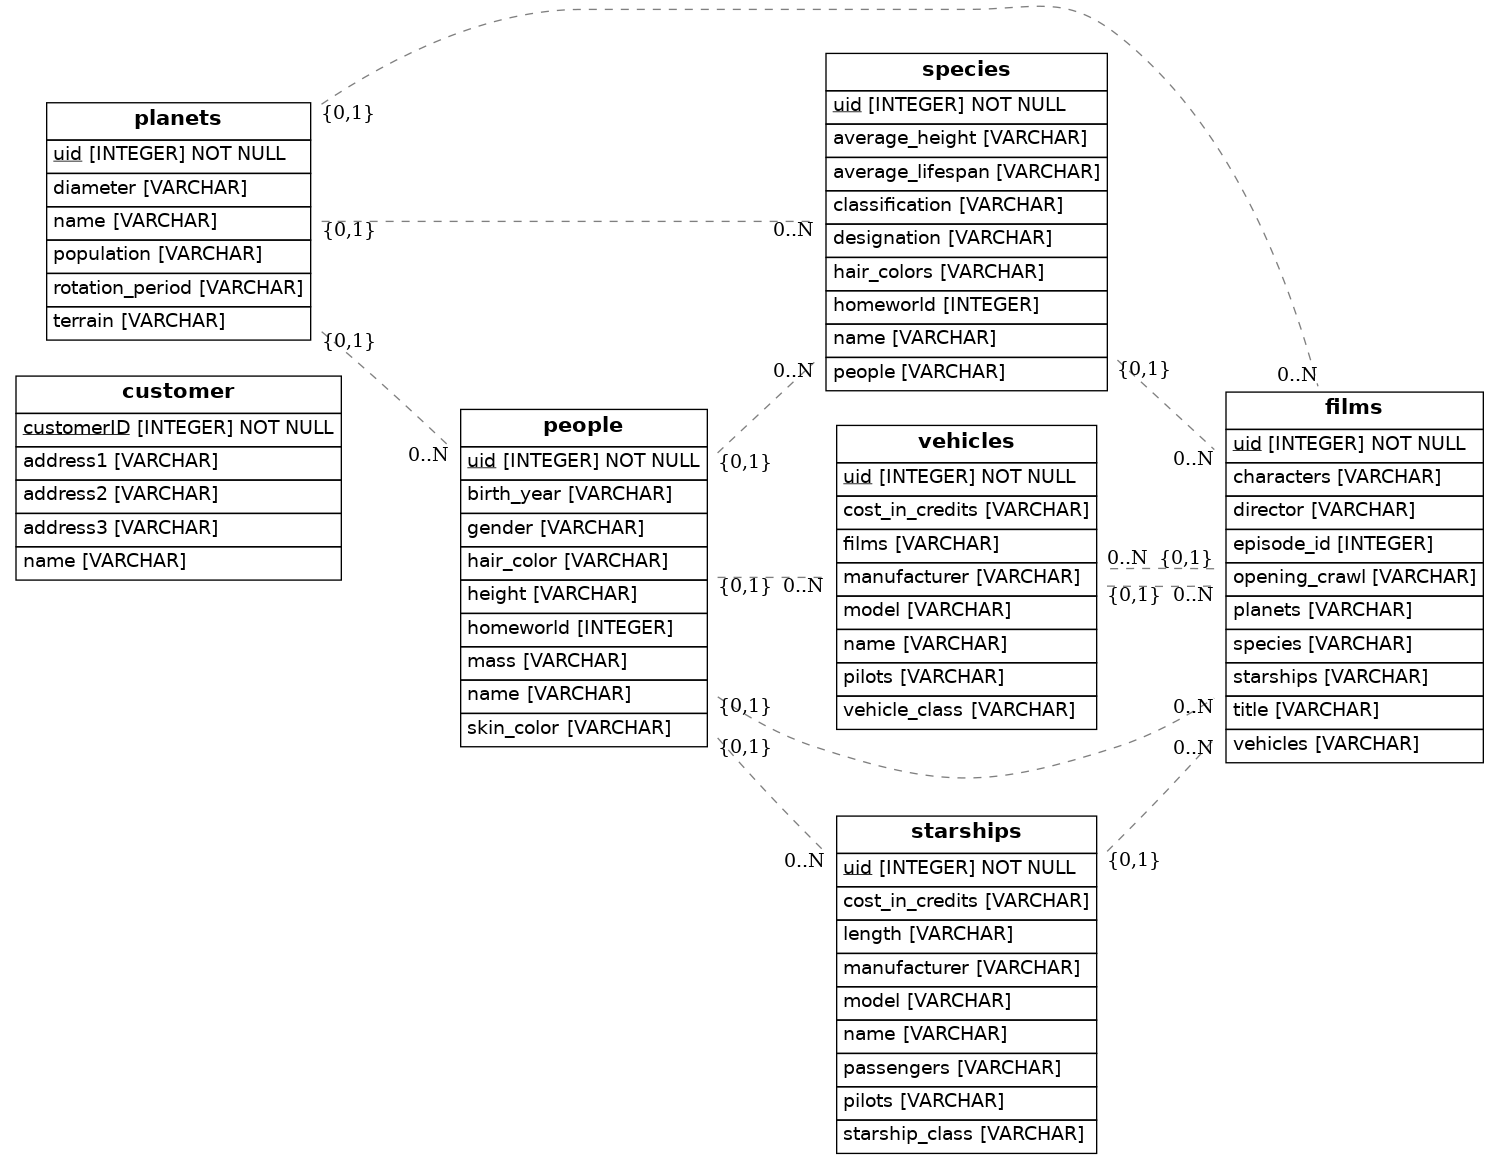
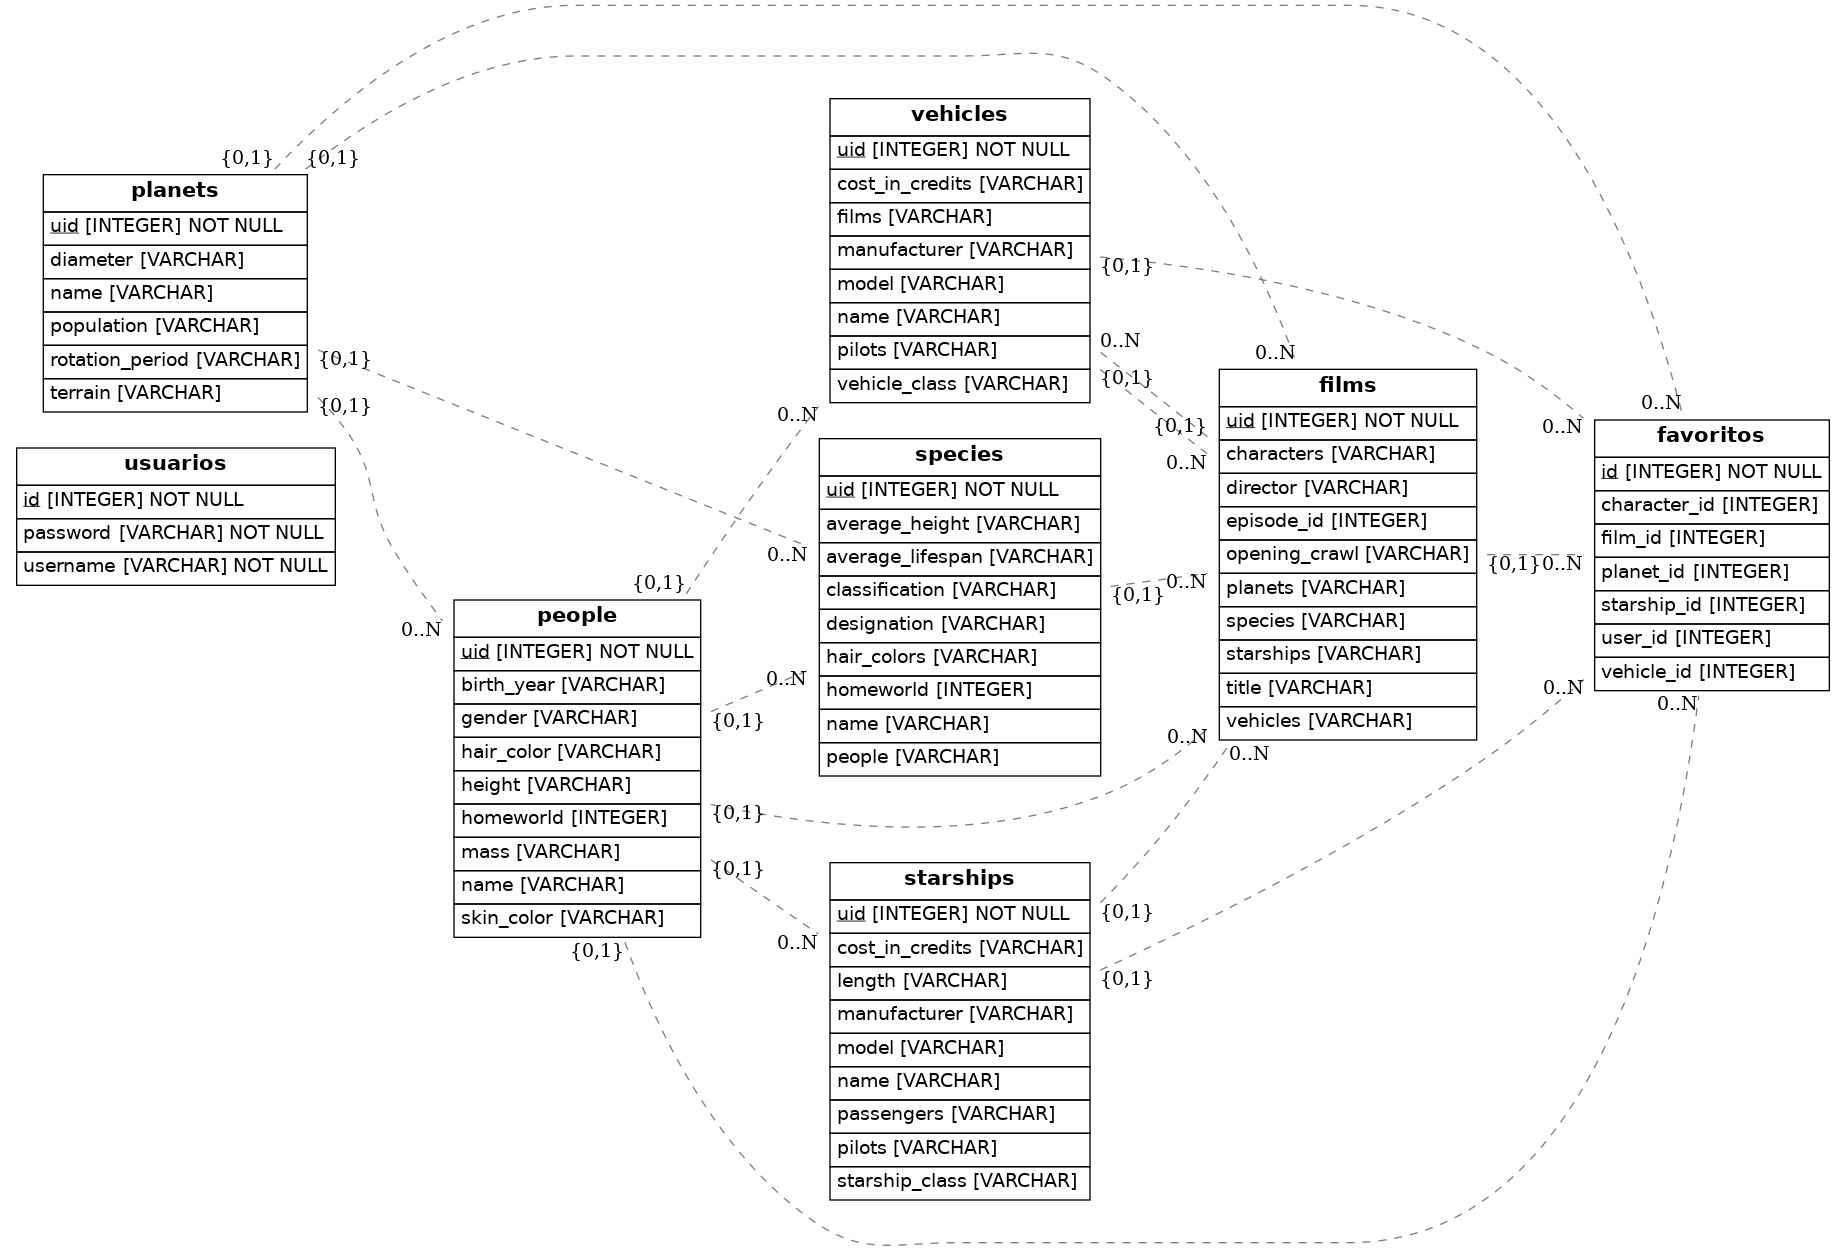
user and likes approach

diff --git a/src/models.py b/src/models.py
@@ -7,13 +7,28 @@ from eralchemy2 import render_er
 
 Base = declarative_base()
 
-class Customer(Base):
-    __tablename__ = 'customer'
-    customerID = Column(Integer, primary_key=True)
-    name = Column(String, index=True)
-    address1 = Column(String)
-    address2 = Column(String, nullable=True)
-    address3 = Column(String, nullable=True)
+class Usuario(Base):
+    __tablename__ = 'usuarios'
+    id = Column(Integer, primary_key=True)
+    username = Column(String, unique=True, nullable=False)
+    password = Column(String, nullable=False)
+    likes = relationship('Likes', back_populates='user')
+
+class Likes(Base):
+    __tablename__ = 'favoritos'
+    id = Column(Integer, primary_key=True)
+    user_id = Column(Integer, ForeignKey('users.id'))
+    planet_id = Column(Integer, ForeignKey('planets.uid'))
+    character_id = Column(Integer, ForeignKey('people.uid'))
+    starship_id = Column(Integer, ForeignKey('starships.uid'))
+    vehicle_id = Column(Integer, ForeignKey('vehicles.uid'))
+    film_id = Column(Integer, ForeignKey('films.uid'))
+    user = relationship('Usuario', back_populates='likes')
+    planet = relationship('Planet')
+    character = relationship('Person')
+    vehicle = relationship('Vehicle')
+    starship = relationship('Starship')
+    film = relationship('Film')
 
 class Vehicle(Base):
     __tablename__ = 'vehicles'
